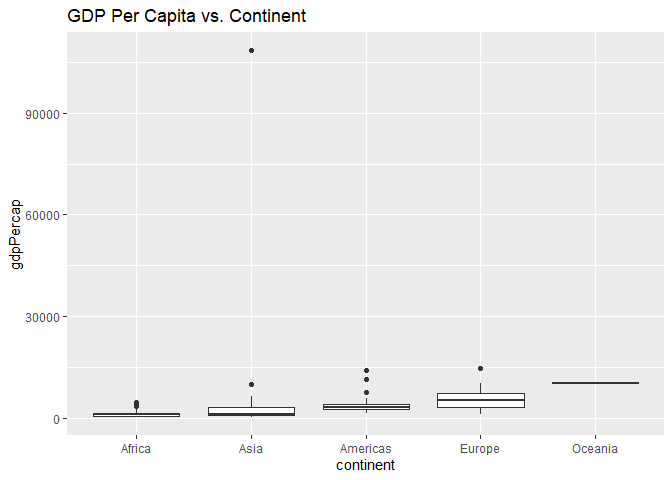
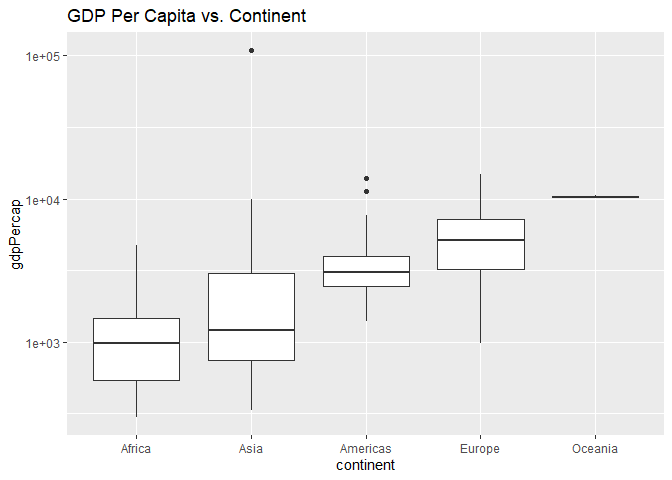
Revised challenge 4 to use log scale on q2 and q4

diff --git a/challenges/c04-gapminder-assignment.md b/challenges/c04-gapminder-assignment.md
@@ -308,7 +308,8 @@ gapminder %>%
   mutate(continent = fct_reorder(continent, gdpPercap)) %>% 
   ggplot(aes(continent, gdpPercap)) +
   geom_boxplot() +
-  labs(title = "GDP Per Capita vs. Continent")
+  labs(title = "GDP Per Capita vs. Continent") +
+  scale_y_log10()
 ```
 
 ![](c04-gapminder-assignment_files/figure-gfm/q2-task-1.png)<!-- -->
@@ -554,7 +555,8 @@ gapminder %>%
      size = 2
   ) +
   facet_wrap(~year) +
-  labs(title = "GDP Per Capita vs. Continent in 1952 and 2007")
+  labs(title = "GDP Per Capita vs. Continent in 1952 and 2007") +
+  scale_y_log10()
 ```
 
 ![](c04-gapminder-assignment_files/figure-gfm/q4-task-1.png)<!-- -->
